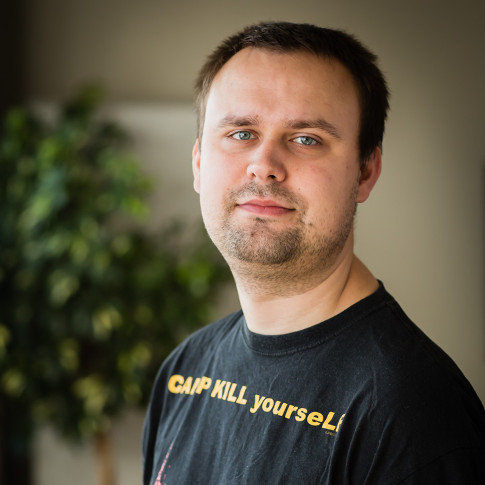
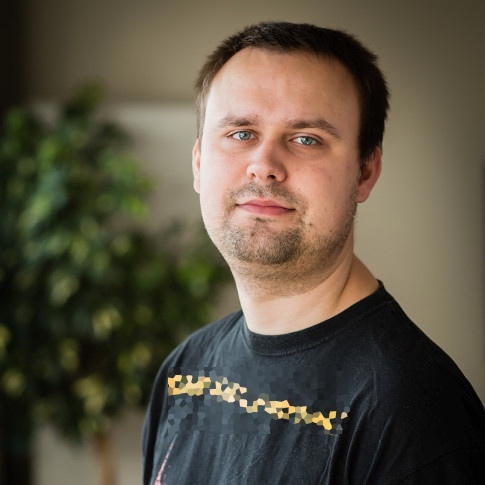
Some text tuning + censorship as usual

Changed region(s): [[0.3402, 0.7423, 0.7423, 0.8969]]

diff --git a/index.html b/index.html
@@ -55,14 +55,14 @@
             <div class="inner">
               <div class="row">
                 <div class="content">
-                  <h2><a target="_blank" href="http://jobs.toggl.com/togglbackend">Work on the backend</a></h2>
+                  <h2><a target="_blank" href="http://jobs.toggl.com/togglbackend">Work on Toggl backend</a></h2>
                   <h3>with Margus, a man of few words.</h3>
                   <p>
                     In fact, all we can get him to say is "postgresql, go, coffee, ruby, bash and git.".
                     <br/><br/>
                     But we also know this: Work from anywhere, as long as your English communication is clear.
                     <br/><br/>
-                    Salary ranges EUR 36,000-45,000 depending on experience. Toggl t-shirt and swag for those who do well on the test. Apply before Oct. 5.
+                    Salary ranges EUR 36,000-45,000 depending on experience. Toggl t-shirt and swag for those who do well on the test. Apply before March 11.
                   </p>
 
                   <a href="https://quiz.toggl.com/togglbackend/" target="_blank" class="btn"  onClick="ga('send', 'event', 'button', 'click', 'togglbackendtest');">Take the test</a>
